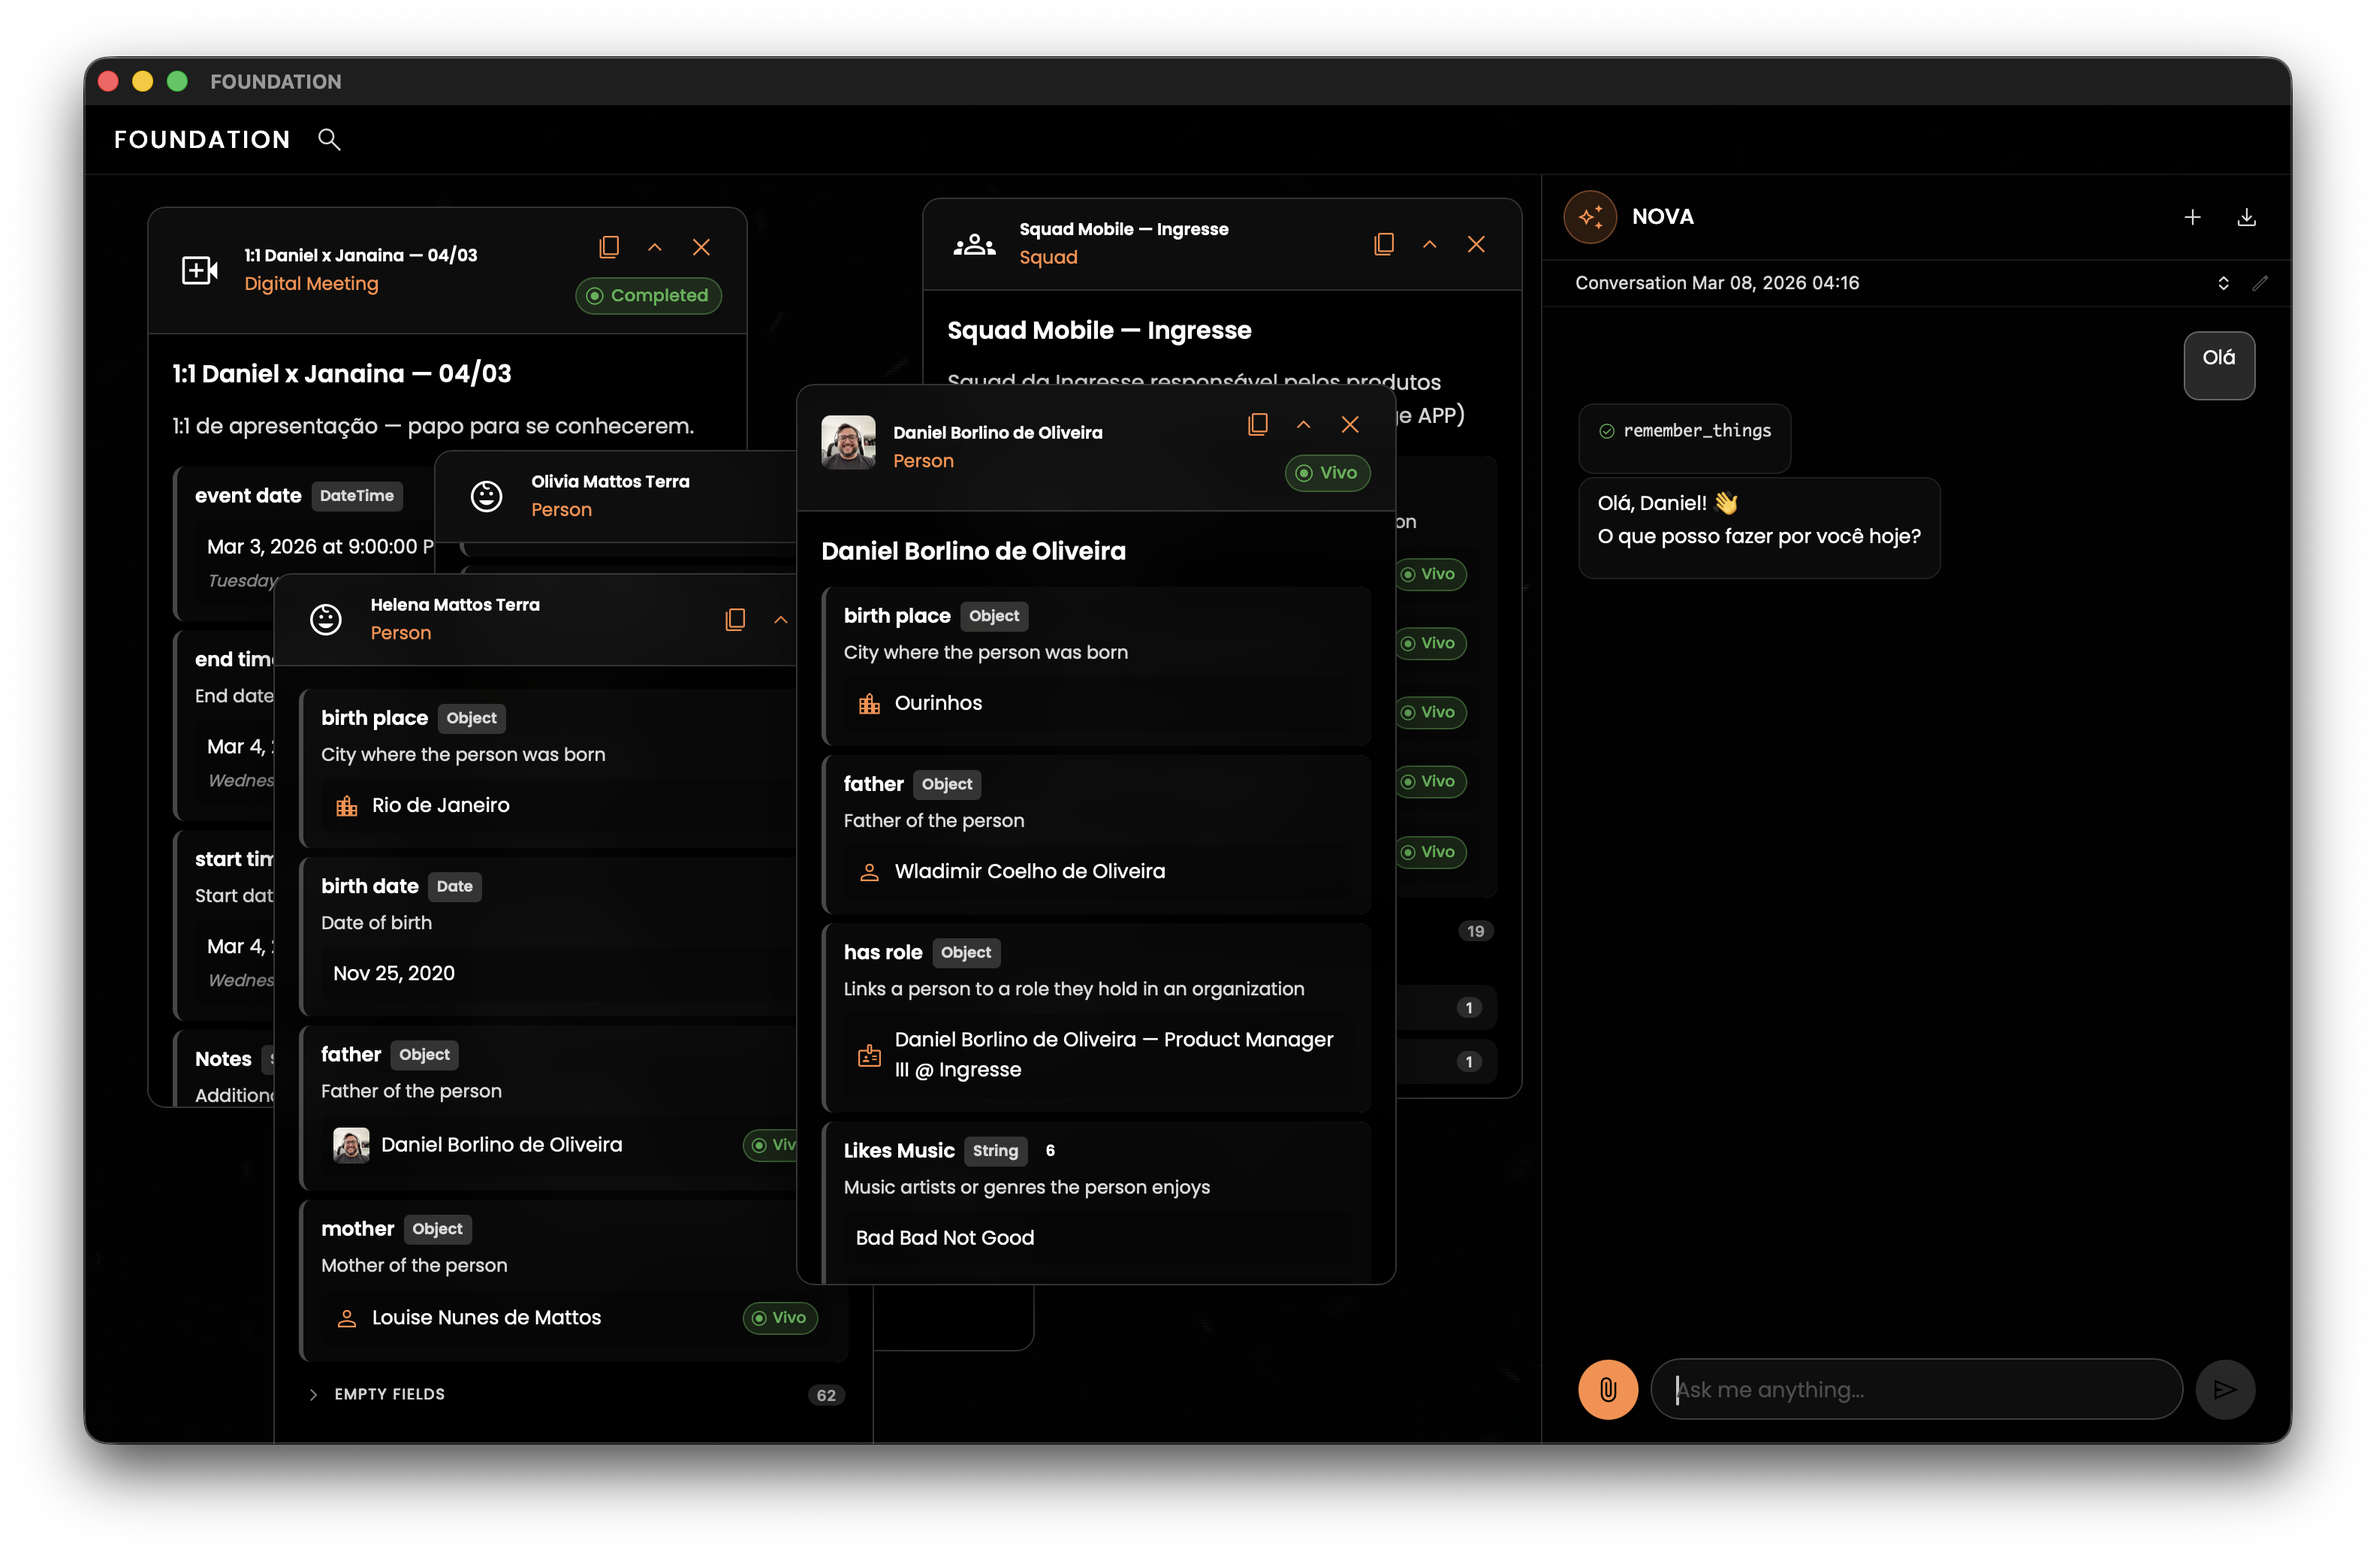
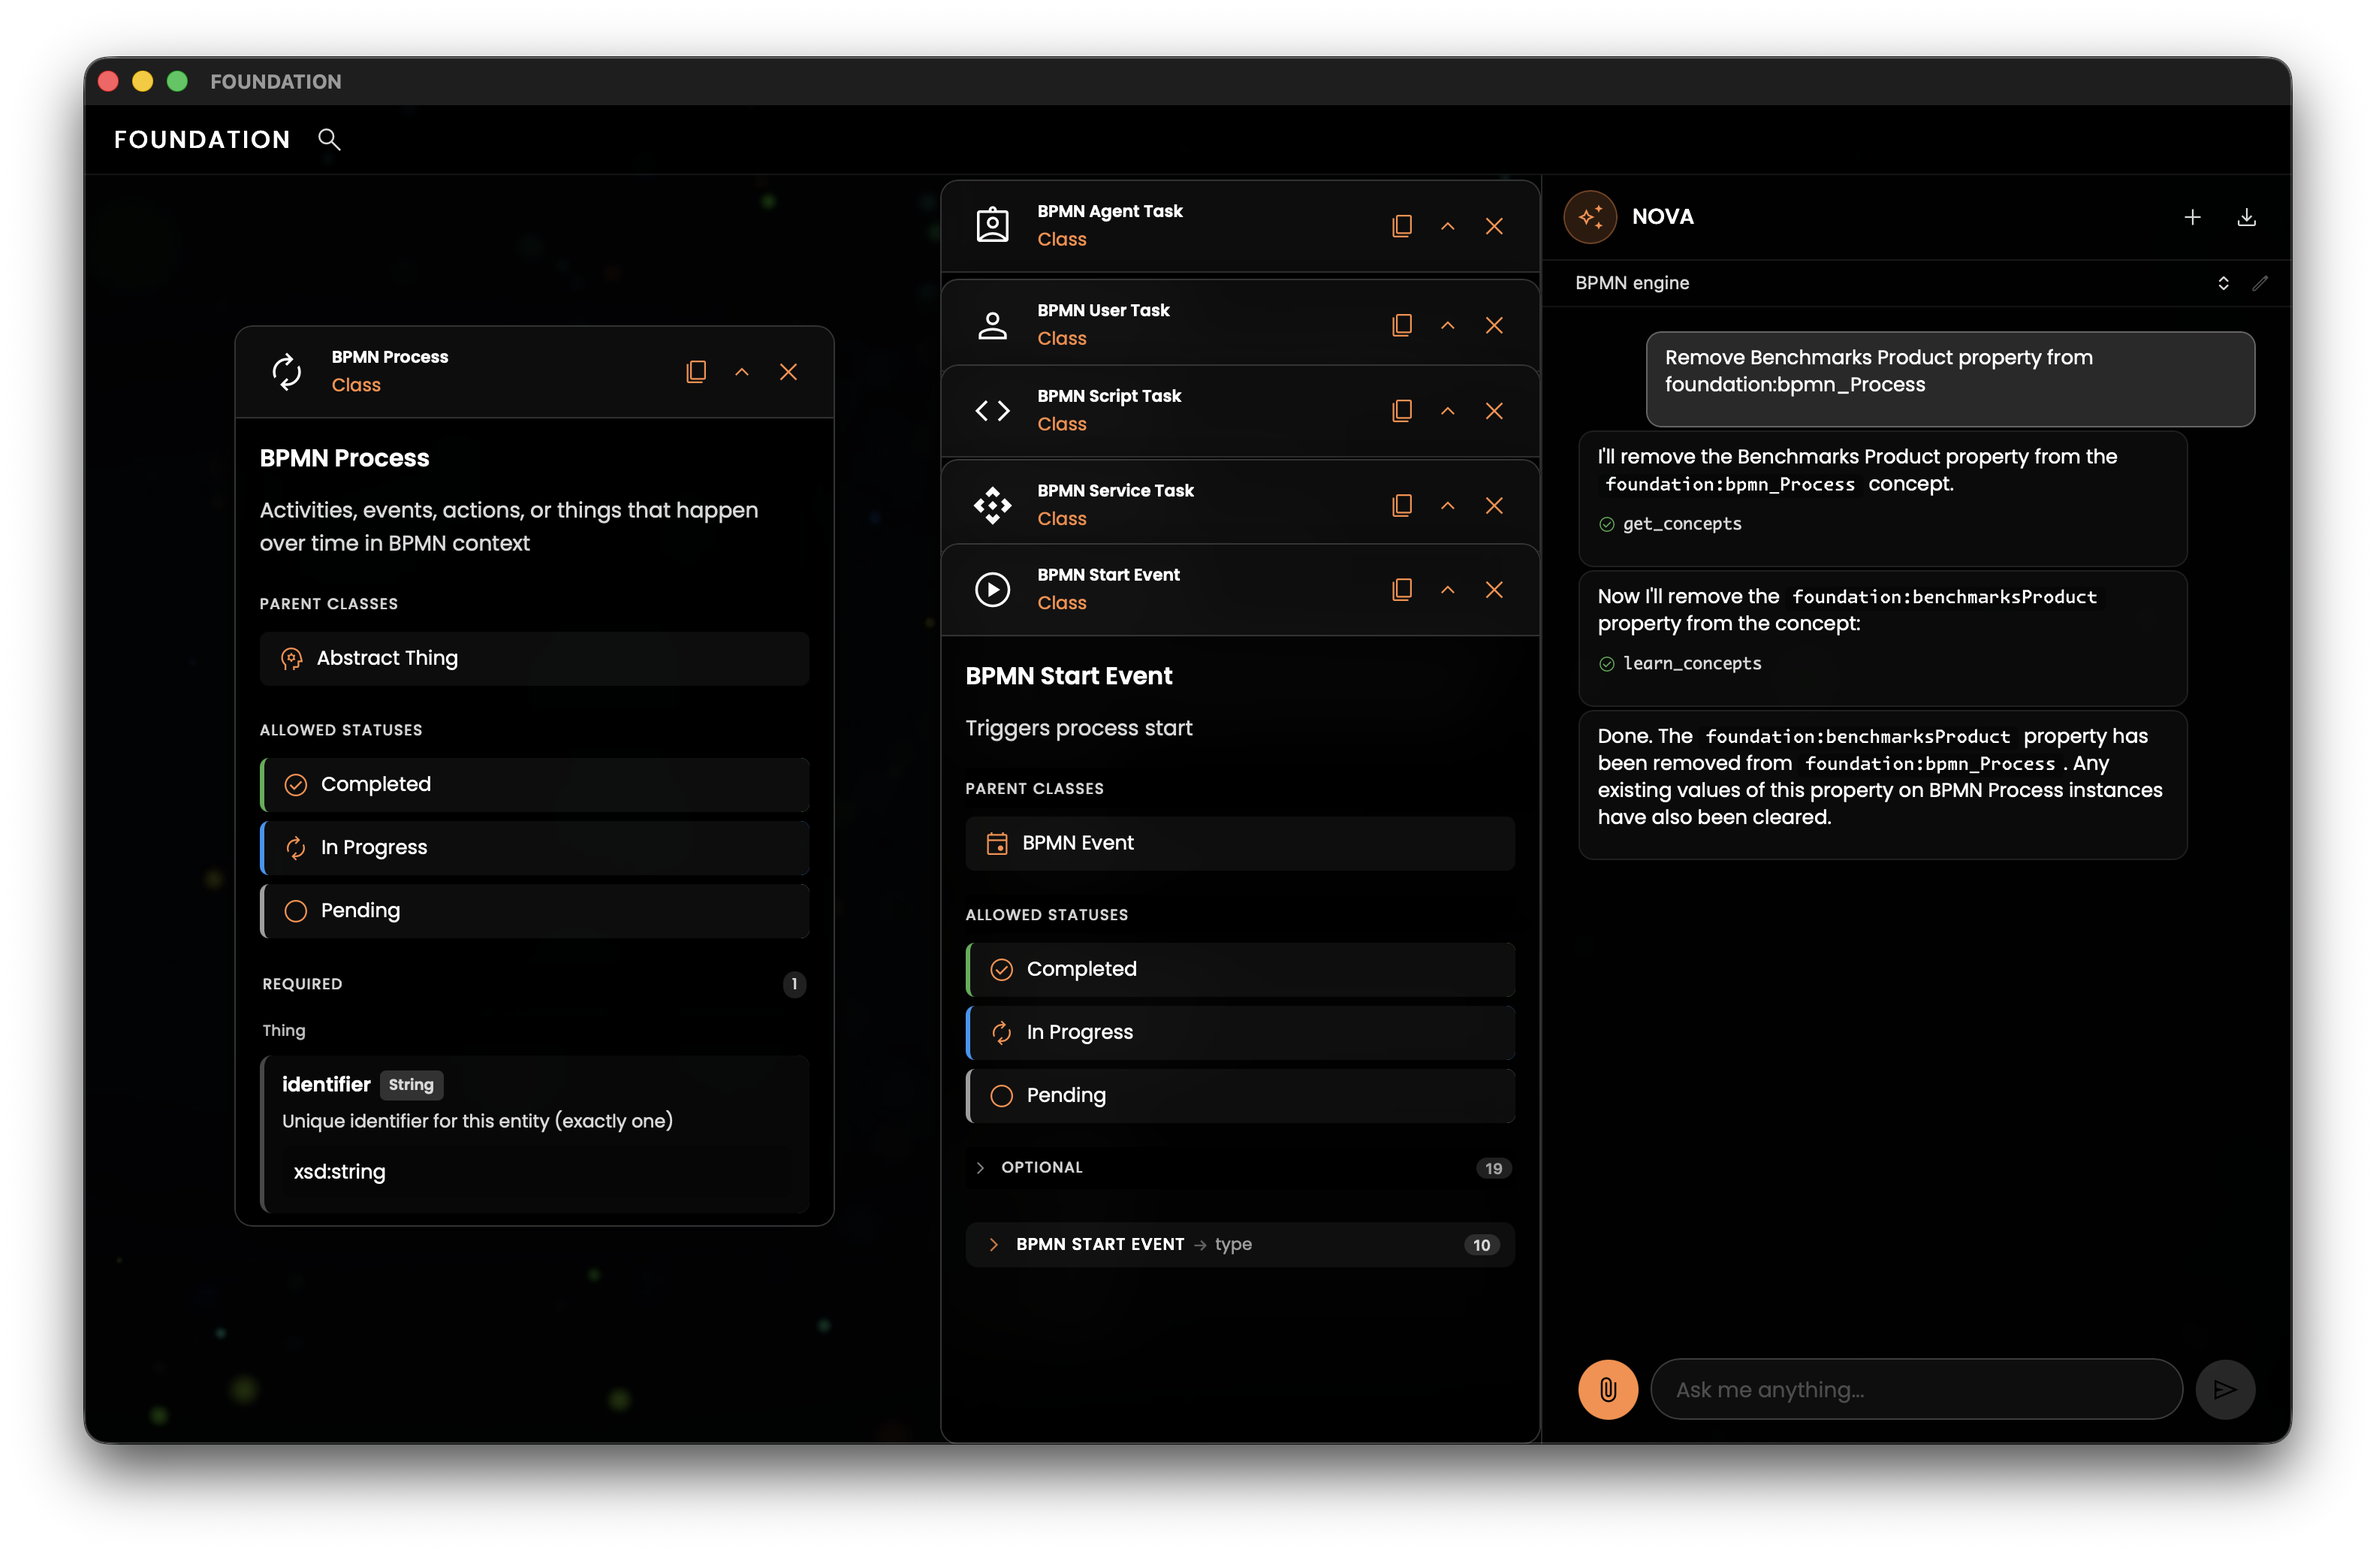
chore: release v0.10.0

diff --git a/README.md b/README.md
@@ -6,14 +6,14 @@
 
 ![FOUNDATION Screenshot](static/Screenshot1.png)
 
-**Version 0.9.1** - AI-powered ontology management system with long-term memory
+**Version 0.10.0** - AI-powered ontology management system with long-term memory
 
 <!-- installers not yet available for this release
-[![Download for macOS](https://img.shields.io/badge/Download-macOS-blue?style=for-the-badge&logo=apple)](https://github.com/danielterra/FOUNDATION/releases/latest/download/FOUNDATION_0.9.0_universal.dmg)
-[![Download for Windows](https://img.shields.io/badge/Download-Windows-blue?style=for-the-badge&logo=windows)](https://github.com/danielterra/FOUNDATION/releases/latest/download/FOUNDATION_0.9.0_x64_en-US.msi)
-[![Download for Linux](https://img.shields.io/badge/Download-Linux-blue?style=for-the-badge&logo=linux)](https://github.com/danielterra/FOUNDATION/releases/latest/download/foundation_0.9.0_amd64.AppImage)
+[![Download for macOS](https://img.shields.io/badge/Download-macOS-blue?style=for-the-badge&logo=apple)](https://github.com/danielterra/FOUNDATION/releases/latest/download/FOUNDATION_0.10.0_universal.dmg)
+[![Download for Windows](https://img.shields.io/badge/Download-Windows-blue?style=for-the-badge&logo=windows)](https://github.com/danielterra/FOUNDATION/releases/latest/download/FOUNDATION_0.10.0_x64_en-US.msi)
+[![Download for Linux](https://img.shields.io/badge/Download-Linux-blue?style=for-the-badge&logo=linux)](https://github.com/danielterra/FOUNDATION/releases/latest/download/foundation_0.10.0_amd64.AppImage)
 -->
-[![Changelog](https://img.shields.io/badge/Changelog-v0.9.1-informational?style=for-the-badge)](https://github.com/danielterra/FOUNDATION/blob/main/CHANGELOG.md)
+[![Changelog](https://img.shields.io/badge/Changelog-v0.10.0-informational?style=for-the-badge)](https://github.com/danielterra/FOUNDATION/blob/main/CHANGELOG.md)
 
 ## Features
 

diff --git a/CHANGELOG.md b/CHANGELOG.md
@@ -5,6 +5,31 @@ All notable changes to FOUNDATION will be documented in this file.
 The format is based on [Keep a Changelog](https://keepachangelog.com/en/1.0.0/),
 and this project adheres to [Semantic Versioning](https://semver.org/spec/v2.0.0.html).
 
+## [0.10.0] - 2026-03-09
+
+### Added
+
+- **Process automation**: BPMN 2.0 workflow engine with connector commands, widgets, AI agent tasks, timers, and parallel execution
+- **Properties management tools**: New `learn_properties`, `remember_properties`, and `forget_properties` AI tools for fine-grained OWL property management independent of concept definitions
+- **Inline markdown editing**: String properties in the Inspector now support inline markdown editing
+
+### Fixed
+
+- **Scheduler**: IRI navigation, startup timing, auto-reload, and Paused status now behave correctly
+- **Date/datetime conversion**: ISO date and datetime values from AI are now converted to Unix milliseconds before writing to OWL
+- **Mermaid lines in WebKit**: Explicit SVG dimensions fix broken connector lines in Safari/WebKit
+- **Property operation ordering**: `remove_properties` is now executed before `upsert_properties` in `learn_things` to avoid conflicts
+
+### Refactored
+
+- Renamed `add_details` to `upsert_details` across all AI tool definitions for clarity
+- Split `eavto/query.rs` (1502 lines) into `query/mod.rs`, `query/find.rs`, and `query/search.rs`
+- Replaced production panics (`.expect()`) with proper `Result` propagation
+
+### Docs
+
+- Added widget system, automation system, and development guides under `docs/`
+
 ## [0.9.1] - 2026-03-08
 
 ### Fixed
